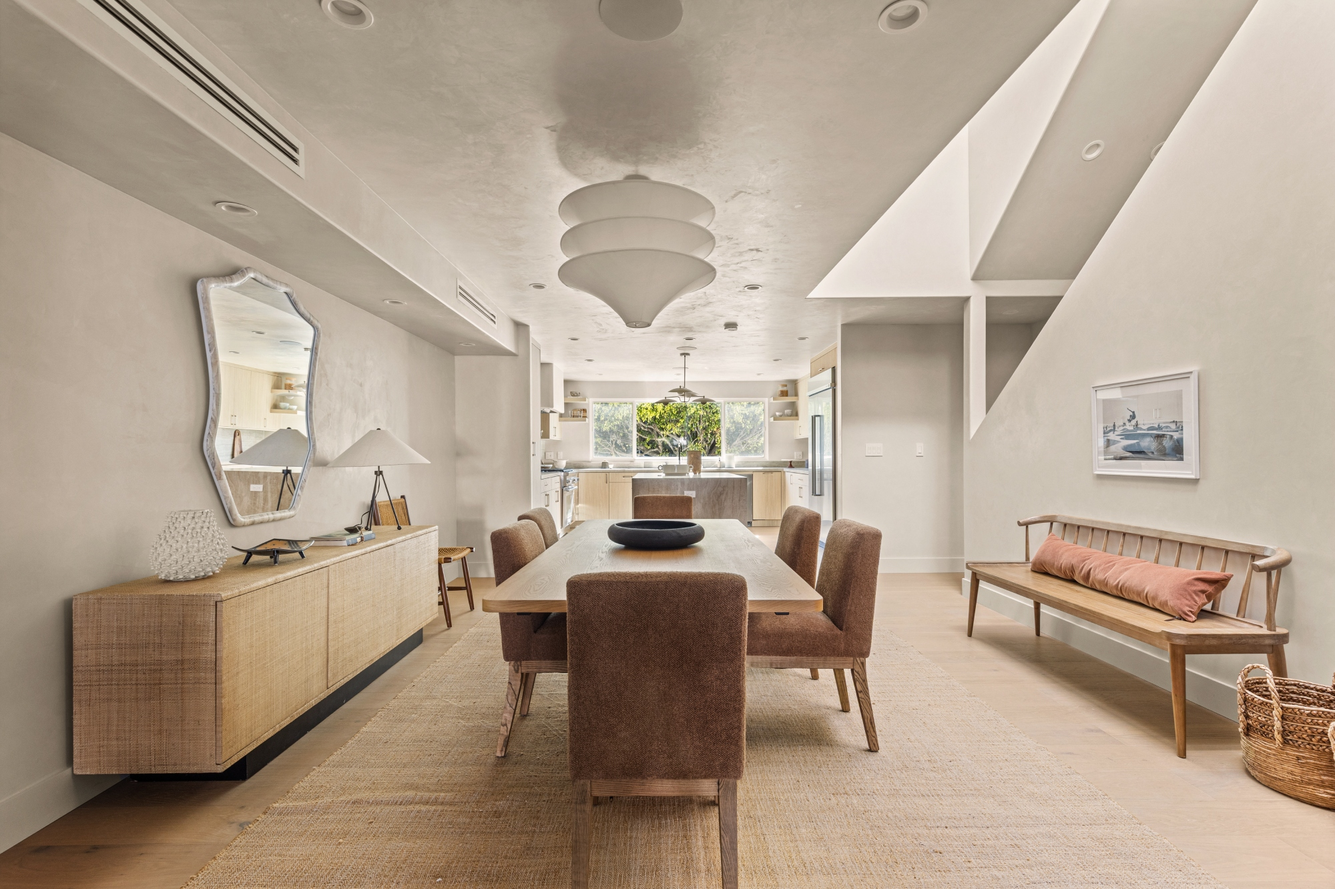
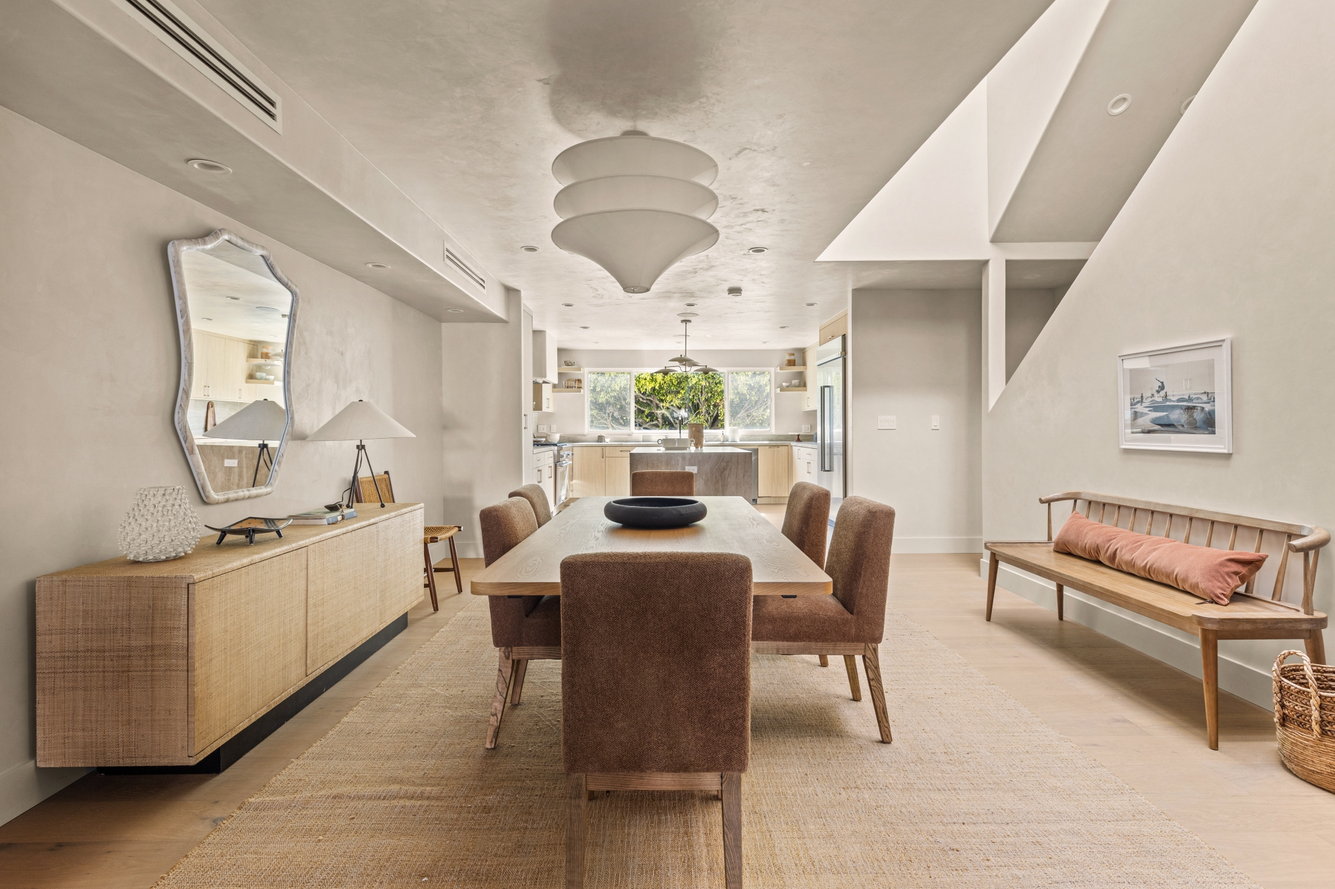
added another image to the different section

diff --git a/public/index.html b/public/index.html
@@ -199,13 +199,21 @@
           </div>
         </div>
 
-        <!-- Break frame: Different -->
-        <div class="sameness-break reveal" data-delay="3">
-          <div class="sameness-break-wrap">
-            <img src="images/before and after/sameness-different.jpg"
-                 alt="Steel &amp; Zane — a different approach" class="sameness-img">
+        <!-- Break row: Different -->
+        <div class="problem-break-row">
+          <div class="sameness-break reveal" data-delay="3">
+            <div class="sameness-break-wrap">
+              <img src="images/before and after/sameness-different.jpg"
+                   alt="Steel &amp; Zane — a different approach" class="sameness-img">
+            </div>
           </div>
-          <p class="sameness-label sameness-label--break">Different.</p>
+          <div class="sameness-break reveal" data-delay="4">
+            <div class="sameness-break-wrap">
+              <img src="images/before and after/sameness-different-02.jpg"
+                   alt="Steel &amp; Zane — a different approach" class="sameness-img">
+            </div>
+            <p class="sameness-label sameness-label--break">Different.</p>
+          </div>
         </div>
 
       </div>

diff --git a/public/style.css b/public/style.css
@@ -1531,11 +1531,15 @@ body.has-hero .site-header {
   padding-top: 10px;
 }
 
+.problem-break-row {
+  display: flex;
+  gap: 10px;
+}
+
 .sameness-break {
+  flex: 1;
   display: flex;
   flex-direction: column;
-  width: calc((100% - 20px) * 0.625);
-  align-self: flex-start;
 }
 
 .sameness-break-wrap {
